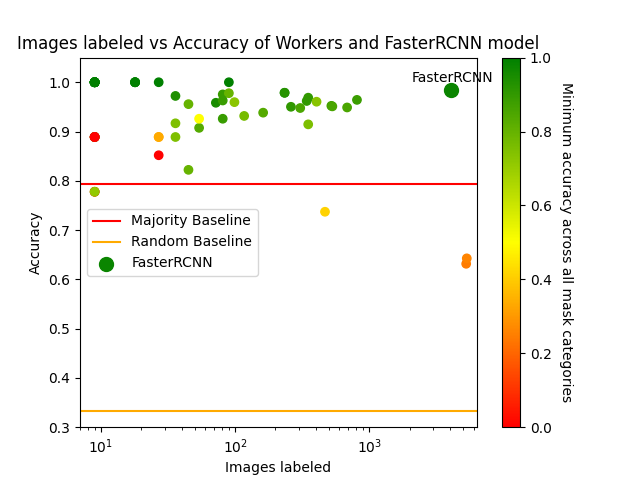
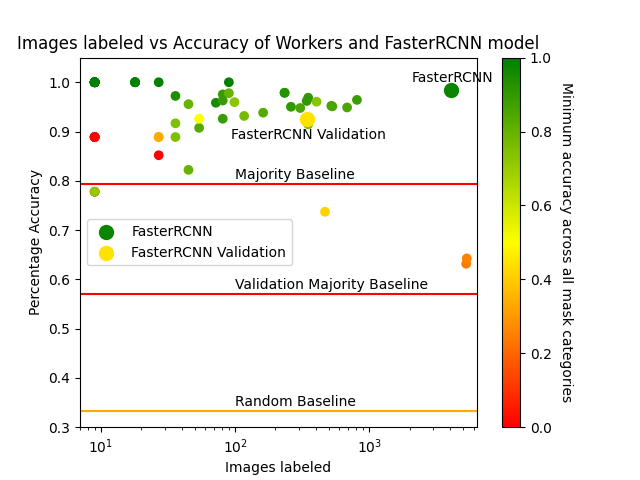
Finished analysis

diff --git a/src/model_analysis.py b/src/model_analysis.py
@@ -105,17 +105,17 @@ def accuracy_bar_graph(worker_qual, model_qual, val_model_qual):
     total_worker_qual = sum(np.array([cm for cm in worker_qual.values()]))
     # Compute worker accuracies
     worker_total = sum([sum(l) for l in total_worker_qual])
-    worker_accs = [l[i] / sum(l) for (i, l) in enumerate(total_worker_qual)]
+    worker_accs = [0 if sum(l) == 0 else l[i] / sum(l) for (i, l) in enumerate(total_worker_qual)]
     worker_correct = total_worker_qual[0][0] + total_worker_qual[1][1] + total_worker_qual[2][2]
     worker_accs.append(worker_correct / worker_total)
     # Compute model accuracies
     model_total = sum([sum(l) for l in model_qual])
-    model_accs = [l[i] / sum(l) for (i, l) in enumerate(model_qual)]
+    model_accs = [0 if sum(l) == 0 else l[i] / sum(l) for (i, l) in enumerate(model_qual)]
     model_correct = model_qual[0][0] + model_qual[1][1] + model_qual[2][2]
     model_accs.append(model_correct / model_total)
     # Compute validation model accuracies
     val_model_total = sum([sum(l) for l in val_model_qual])
-    val_model_accs = [l[i] / sum(l) for (i, l) in enumerate(val_model_qual)]
+    val_model_accs = [0 if sum(l) == 0 else l[i] / sum(l) for (i, l) in enumerate(val_model_qual)]
     val_model_correct = val_model_qual[0][0] + val_model_qual[1][1] + val_model_qual[2][2]
     val_model_accs.append(val_model_correct / val_model_total)
 
@@ -138,17 +138,20 @@ def accuracy_bar_graph(worker_qual, model_qual, val_model_qual):
 
 # Plot probability of each label given the bounding box label in a bar graph
 def probability_bar_graph(cm):
-    cm = [[x / sum(l) for x in l] for l in cm]
+    cm = [[0 if sum(l) == 0 else x / sum(l) for x in l] for l in cm]
     labels = ['WMC', 'WMI', 'NWM', 'Duplicate', 'Unverifiable', 'Incorrect']
-    x = np.arange(len(labels)) * 5
-    width = 2
-    plt.bar(x, scores, width=width, color=['green', 'yellow', 'red', 'blue', 'orange', 'purple'])
+    x = np.arange(len(labels)) * 2
+    width = 0.4
+    plt.bar(x - width, [l[0] for l in cm], width=width, label='WMC')
+    plt.bar(x, [l[1] for l in cm], width=width, label='WMI')
+    plt.bar(x + width, [l[2] for l in cm], width=width, label='NWM')
     plt.title('Probability distribution of mask categories given bounding box categories')
     plt.xticks(x, labels)
     plt.xlabel('Bounding Box Categories')
-    plt.ylabel('Percentage Confidence')
+    plt.ylabel('Percentage Distribution')
+    plt.legend()
     plt.ylim((0, 1))
-    plt.savefig(join(data_dir, analysis_dir, 'model_scores.png'))
+    plt.savefig(join(data_dir, analysis_dir, 'bounding_box_label_probabilities.png'))
     plt.show()
 
 # Plot average scores for each bounding box category
@@ -165,6 +168,7 @@ def scores_bar_graph(scores):
     plt.savefig(join(data_dir, analysis_dir, 'model_scores.png'))
     plt.show()
 
+# Plot face detection rate and bounding box category makeup
 def detection_rate_pie_chart(detect_rate):
     labels = ['Detected', 'Undetected']
     sizes = detect_rate[::4]
@@ -180,13 +184,13 @@ def detection_rate_pie_chart(detect_rate):
     plt.pie(sizes, explode=explode, labels=labels, autopct='%1.1f%%',
         shadow=True, startangle=10, colors=['green', 'blue', 'orange', 'purple'])
     plt.title('Percentage makeup of model bounding boxes')
-    plt.savefig(join(data_dir, analysis_dir, 'bounding_boxe_categories.png'))
+    plt.savefig(join(data_dir, analysis_dir, 'bounding_box_categories.png'))
     plt.show()
 
 # Draw scatter plot of workers and model with random and majority baseline
 # Plot Image labeled vs Accuracy
 # Color map that highlights minimum accuracy of each worker across all categories
-def preliminary_scatter_plot(worker_qual, model_qual):
+def scatter_plot(worker_qual, model_qual, val_model_qual):
     xs = []
     ys = []
     cs = []
@@ -204,7 +208,7 @@ def preliminary_scatter_plot(worker_qual, model_qual):
         xs.append(total)
         ys.append(correct / total)
         # Find least accurate category
-        min_acc = min([l[i] / sum(l) for i, l in enumerate(m)])
+        min_acc = min([l[i] / sum(l) for i, l in enumerate(m) if sum(l) > 0])
         cs.append(min_acc)
     # Compute graph values for model
     m = model_qual
@@ -212,24 +216,38 @@ def preliminary_scatter_plot(worker_qual, model_qual):
     if total > max_total:
         max_total = total
     correct = m[0][0] + m[1][1] + m[2][2]
+    min_acc = min([l[i] / sum(l) for i, l in enumerate(m) if sum(l) > 0])
+    # Compute graph values for validation model
+    val_m = val_model_qual
+    val_total = sum([sum(l) for l in val_m])
+    if val_total > max_total:
+        max_total = val_total
+    val_correct = val_m[0][0] + val_m[1][1] + val_m[2][2]
+    val_min_acc = min([l[i] / sum(l) for i, l in enumerate(val_m) if sum(l) > 0])
     # Compute baselines
     majority_baseline = max([sum(l) for l in m]) / total
+    val_majority_baseline = max([sum(l) for l in val_m]) / val_total
     random_baseline = 1 / 3
-    min_acc = min([l[i] / sum(l) for i, l in enumerate(m)])
     # Plot graph
     cmap = LinearSegmentedColormap.from_list("", ["red","yellow","green"])
     plt.scatter(xs, ys, c=cs, cmap=cmap, vmin=0, vmax=1)
     plt.scatter([total], [correct / total], s = 100, label="FasterRCNN", c=[min_acc], cmap=cmap, vmin=0, vmax=1)
+    plt.scatter([val_total], [val_correct / val_total], s = 100, label="FasterRCNN Validation", c=[val_min_acc], cmap=cmap, vmin=0, vmax=1)
     plt.annotate("FasterRCNN", (total - 2000, correct / total + 0.015))
+    plt.annotate("FasterRCNN Validation", (val_total - 250, val_correct / val_total - 0.04))
+    plt.legend()
+    plt.annotate("Validation Majority Baseline", (100, val_majority_baseline + 0.01))
+    plt.annotate("Majority Baseline", (100, majority_baseline + 0.01))
+    plt.annotate("Random Baseline", (100, random_baseline + 0.01))
+    plt.plot([0, max_total + 1000], [val_majority_baseline, val_majority_baseline], color=cmap(0), label="Validation Majority Baseline")
     plt.plot([0, max_total + 1000], [majority_baseline, majority_baseline], color=cmap(0), label="Majority Baseline")
     plt.plot([0, max_total + 1000], [random_baseline, random_baseline], color=cmap(random_baseline), label="Random Baseline")
     plt.title("Images labeled vs Accuracy of Workers and FasterRCNN model")
     plt.xlabel("Images labeled")
-    plt.ylabel("Accuracy")
+    plt.ylabel("Percentage Accuracy")
     plt.xscale("log")
     plt.xlim((7, max_total + 1000))
     plt.ylim((0.3, 1.05))
-    plt.legend()
     cbar = plt.colorbar()
     cbar.ax.get_yaxis().labelpad = 15
     cbar.ax.set_ylabel('Minimum accuracy across all mask categories', rotation=270)
@@ -248,7 +266,7 @@ def main():
     probability_bar_graph(val_model_qual)
     scores_bar_graph(scores)
     detection_rate_pie_chart(detect_rate)
-    scatter_plot(worker_qual, model_qual, val_model_qual)
+    scatter_plot(worker_qual, model_qual, val_model_qual[:3])
 
 if __name__ == '__main__':
     main()

diff --git a/docs/README.md b/docs/README.md
@@ -8,11 +8,15 @@ Our project, WYM - Wear Your Mask, is a live application that utilizes camera re
 - analysis: directory containing analysis files after performance quality control and aggregation
     - accuracy_iteration_with_initial.png: plot of iteration number vs accuracy with gold standard quality as initial quality
     - accuracy_iteration_without_initial.png: plot of iteration number vs accuracy assuming all workers are initially perfect
+    - bounding_box_label_probabilities.png: Bar graph representing probability distribution of mask labels for each bounding box label
+    - bounding_box_categories.png: Pie chart representing percentage makeup of each bounding box category
+    - facee_detect.png: Pie chart representing percentage of faces detected and undetected by model
     - gold_standard_quality.csv: quality control output for every worker with tasks completed, average time spent on each task, accuracy for each face category, total accuracy, and whether or not the worker is a good worker
     - image_labels.csv: aggregation output from running EM with gold standard performance as initial quality for 1 iteration
     - model_image_labels.csv: model predictions on labels for classification images
     - model_image_preds.csv: model predictions on validation images including a list of bounding boxes, a list of labels corresponding to each bounding box, and a list a scores that the model assigns to each bounding box prediction
     - model_performance.csv: model performance on validation images containing bounding boxes, predicted labels, scores for prediction, true labels, and number of undetected faces identified by user
+    - model_scores.png: Bar graph representing average confidence scores for each bounding box category
     - worker_accuracy_iteration_with_initial.png: plot of iteration number vs individual worker accuracy with gold standard quality as initial quality
     - worker_accuracy_iteration_without_initial.png: plot of iteration number vs individual worker accuracy assuming all workers are initially perfect
     - worker_model_accuracies.png: bar graph representing accuracies of all workers combined and our model on labeling classification images and validation images
@@ -166,25 +170,6 @@ Refer to README.md in src directory for information on how to run code
         - threshold: float representing percentage threshold
         - output: mapped indices of true bounding boxes for each predicted bounding box
     - Execute with --show-ui option to display image with bounding boxes along the way. Press q to quit and any other key to display the next image.
-- <b>model_analysis.py</b>: Computes worker and model quality and plots results with baselines
-    - <i>calculate_worker_quality(labels)</i>: Calculate worker confusion matrices
-        - labels: dictionary mapping image file name to label
-        - output: confusion matrices for each worker
-    - <i>calculate_preliminary_model_accuracy(labels)</i>: Calculate model confusion matrix from data/analysis.model_image_labels.csv
-        - labels: dictionary mapping image file name to label
-        - output: confusion matrices for model
-    - <i>calculate_model_accuracy()</i>: Calculate model confusion matrices, average scores, and percentage face detection
-        - output:
-            - 6 x 3 confusion matrix for 6 bounding box categories and 3 face categories
-            - List of 6 average scores corresponding to each bounding box category
-            - Percentage of faces detected on average
-    - <i>accuracy_bar_graph(worker_qual, model_qual, val_model_qual)</i>: Compute accuracy statistics for workers and model:
-        - worker_qual: confusion matrices for each worker
-        - model_qual: model confusion matrix
-        - val_model_qual: validation model confusion matrix
-    - <i>preliminary_scatter_plot(worker_qual, model_qual)</i>: Plot worker and model quality along with baselines
-        - worker_qual: confusion matrices for each worker
-        - model_qual: model confusion matrix
 - <b>model_predict.py</b>: Computes model predictions on validation images
     - Default directory path of data/validation_images
     - Execute with -i option followed by a path to a directory with images to predict on different images
@@ -216,7 +201,31 @@ Refer to README.md in src directory for information on how to run code
         - result_df: dataframe containing results from classification HITs
         - true_df: dataframe containing true labels
         - worker_qual: initial worker quality to use for EM algorithm
-
+- <b>model_analysis.py</b>: Computes worker and model quality and plots results with baselines
+    - <i>calculate_worker_quality(labels)</i>: Calculate worker confusion matrices
+        - labels: dictionary mapping image file name to label
+        - output: confusion matrices for each worker
+    - <i>calculate_preliminary_model_accuracy(labels)</i>: Calculate model confusion matrix from data/analysis.model_image_labels.csv
+        - labels: dictionary mapping image file name to label
+        - output: confusion matrices for model
+    - <i>calculate_model_accuracy()</i>: Calculate model confusion matrices, average scores, and percentage face detection
+        - output:
+            - 6 x 3 confusion matrix for 6 bounding box categories and 3 face categories
+            - List of 6 average scores corresponding to each bounding box category
+            - Percentage of faces detected on average
+    - <i>accuracy_bar_graph(worker_qual, model_qual, val_model_qual)</i>: Plot accuracy statistics for workers and model in a bar graph
+        - worker_qual: confusion matrices for each worker
+        - model_qual: model confusion matrix
+        - val_model_qual: validation model confusion matrix
+    - <i>probability_bar_graph(cm)</i>: Plot probability of each label given the bounding box label in a bar graph
+    - <i>scores_bar_graph(scores)</i>: Plot average confidence score for each bounding box category
+        - scores: list of average confidence scores for each category
+    - <i>detection_rate_pie_chart(detect_rate)</i>: Plot face detection rate and bounding box category makeup
+        - detect rate: list containing number of incidences of each bounding box category as well as number of faces not detected
+    - <i>scatter_plot(worker_qual, model_qual, val_model_qual)</i>: Plot worker and model quality along with baselines
+        - worker_qual: confusion matrices for each worker
+        - model_qual: model confusion matrix
+        - val_model_qual: model validation confusion matrix
 ## hit_templates
 HTML code for HIT templates
 - bounding_box_mockup.html: Template for face bounding box HIT task
@@ -293,7 +302,7 @@ With this, we can determine how well the model can recognize faces, how often it
     - To show images with predicted and true bounding boxes run:
     > python generate_model_predictions.py --show-ui
     - Press q to quit and any other key to display the next image.
-    - Developer and Instructor Note: This code will take several hours to run and you do not need to run it because the output csv is saved as data/analysis/model_image_labels.csv
+    - Developer and Instructor Note: This code will take several hours to run and you do not need to run it because the output csv is saved as data/analysis/model_image_labels.csv. Running it will rewrite the output csv so if you do not run the script in full, be sure to reset the git repository.
     1. Reads data/classifier_input.csv to get true bounding boxes and labels for each image
     2. Make predictions on each image using model/faster_rcnn_model.pt and remove duplicate bounding boxes
     3. Map predicted bounding boxes to true bounding boxes
@@ -301,13 +310,13 @@ With this, we can determine how well the model can recognize faces, how often it
     5. Save predicted labels for each bounding box image in data/analysis/model_image_labels.csv
 2. > python model_predict.py
     - Defaults to data/validation_images directory
-    - To specify a diffirent directory, run with -i option followed by path
+    - To specify a different directory, run with -i option followed by path
     1. Reads all images in the validation image directory
     2. Compute model predictions on all validation images
     3. Save predictions in data/analysis/model_image_preds.csv
 3. > python model_validation.py
     - Defaults to data/validation_images directory
-    - To specify a diffirent directory, run with -i option followed by path
+    - To specify a different directory, run with -i option followed by path
     - Developer and Instructor Note: This code requires manual work and you do not need to run it because the output csv is saved as data/analysis/model_performance.csv
     1. Displays bounding boxes for each image to users 1 by 1
     2. Asks user to determine if bounding box is:
@@ -333,5 +342,9 @@ With this, we can determine how well the model can recognize faces, how often it
     1. Reads true classification image labels from data/analysis/image_labels.csv
     2. Compute worker confusion matrices by comparing results in data/classification_hit_output.csv with true labels
     3. Compute model confusion matrix by comparing data/analysis/model_image_labels.csv and true image labels
-    4. Compute accuracy statistics for workers and model using confusion matrix and save to data/analysis/worker_model_accuracies.csv
-    5. Plots images labeled vs accuracy for workers and model along with majority and random baselines and saves figure as data/analysis/worker_model_quality.png
+    4. Compute model validation confusion matrix by readding data/analysis/model_performance.csv
+    5. Plots accuracy statistics for workers and our model using the respective confusion matrices
+    6. Plots probability distribution for each bounding box categories
+    7. Plots average confidence scores for each bounding box categories
+    8. Plots pie charts for face detection rate and bounding box category makeup
+    9. Plots images labeled vs accuracy for workers and model along with majority and random baselines
